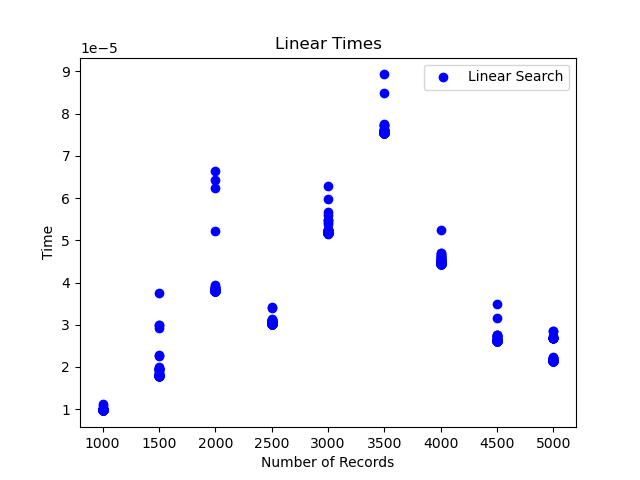
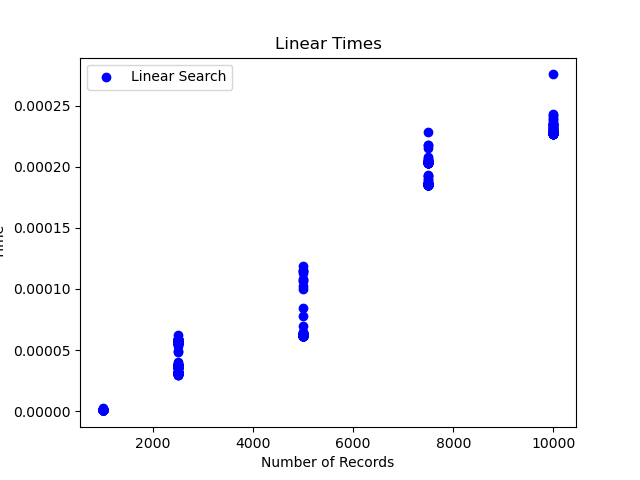
changes

diff --git a/ex4.2.py b/ex4.2.py
@@ -31,7 +31,7 @@ def linear_search(arr, target):
 
 #5
 
-vectorSizes = [1000,1500,2000,2500,3000,3500,4000,4500,5000]
+vectorSizes = [1000,2500,5000,7500,10000]
 sizes = []
 binaryTimes = []
 linearTimes = []
@@ -41,14 +41,13 @@ linearTimes = []
 for i in vectorSizes:
     arr = sorted([random.randint(1, i*10) for _ in range(i)])  # Create a sorted vector
     target = random.choice(arr)
-    sizes.append(np.full((100), i))
+    sizes += [i for j in range(100)]
     
     tm = timeit.repeat(lambda: binary_search(arr,target), repeat=100, number=1)
     binaryTimes.append(tm)
 
     tm = timeit.repeat(lambda: linear_search(arr,target), repeat=100, number=1)
     linearTimes.append(tm)
-
 
 
 plt.scatter(sizes,linearTimes, c="b", label="Linear Search")
